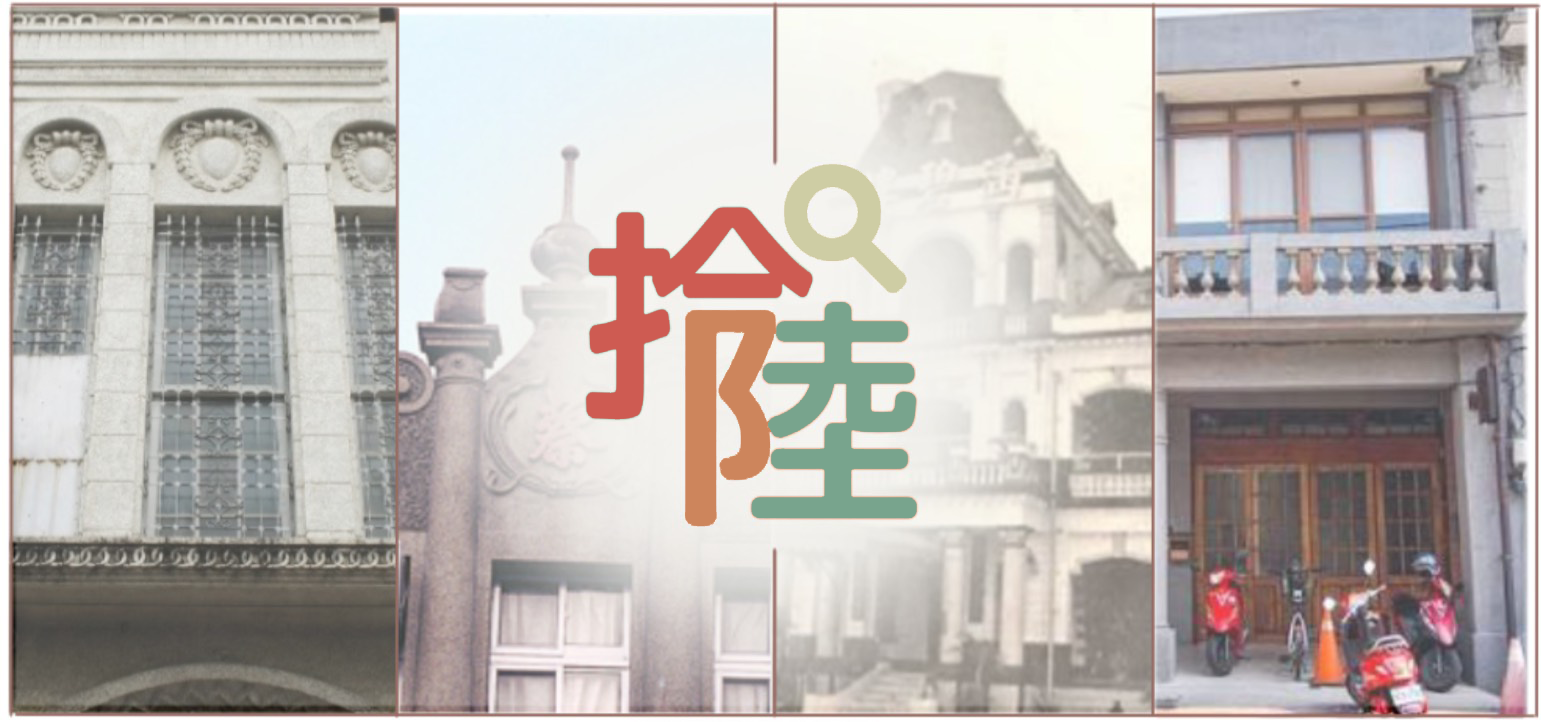
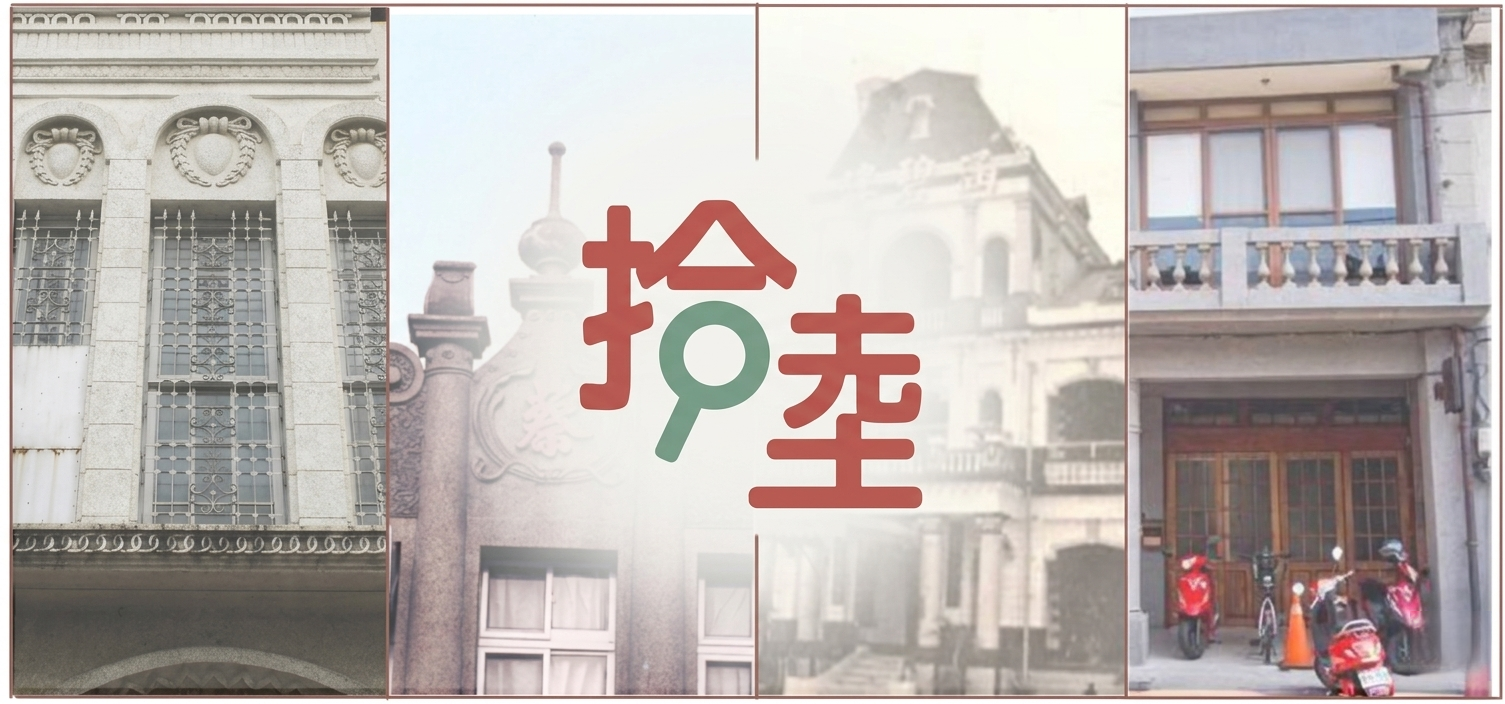
Add files via upload

diff --git a/index.html b/index.html
@@ -168,7 +168,7 @@
 
     <div id="loader-wrapper">
         <div class="loader-logo-container">
-            <img src="6.jpg" alt="Logo"> 
+            <img src="11.png" alt="Logo"> 
             <div class="loader-slogan">拾得古建築的風骨，閱讀斗六的靈魂。</div>
         </div>
     </div>
